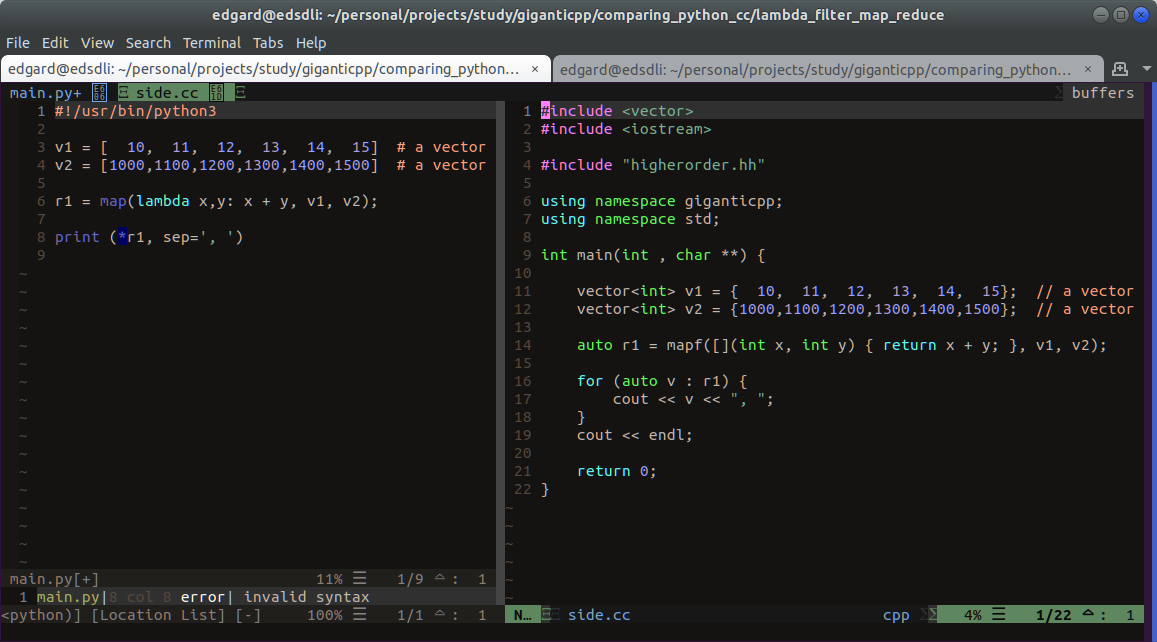
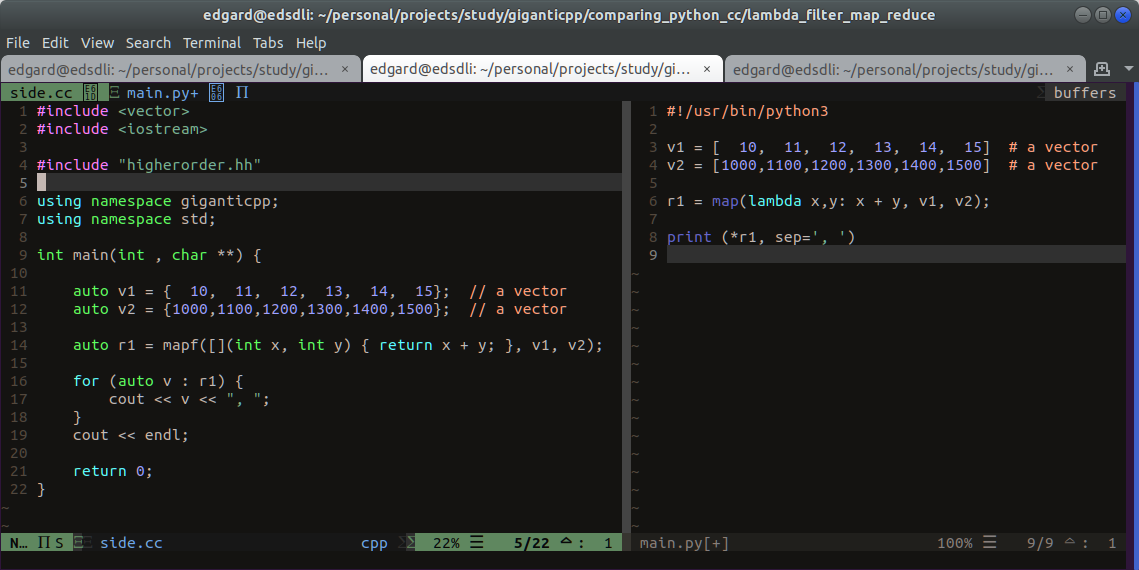
auto

diff --git a/comparing_python_cc/lambda_filter_map_reduce/side.cc b/comparing_python_cc/lambda_filter_map_reduce/side.cc
@@ -8,8 +8,8 @@ using namespace std;
 
 int main(int , char **) {
     
-    vector<int> v1 = {  10,  11,  12,  13,  14,  15};  // a vector
-    vector<int> v2 = {1000,1100,1200,1300,1400,1500};  // a vector
+    auto v1 = {  10,  11,  12,  13,  14,  15};  // a vector
+    auto v2 = {1000,1100,1200,1300,1400,1500};  // a vector
 
     auto r1 = mapf([](int x, int y) { return x + y; }, v1, v2);
     
